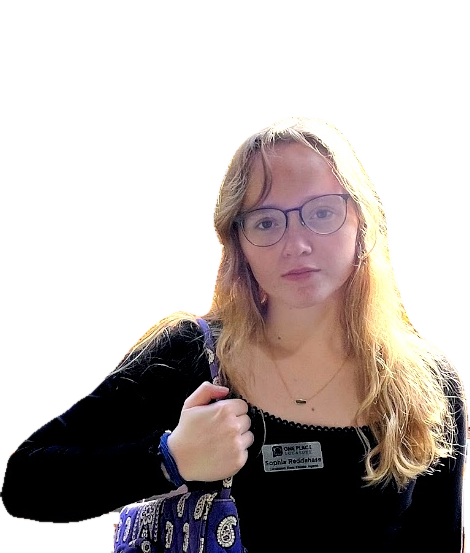
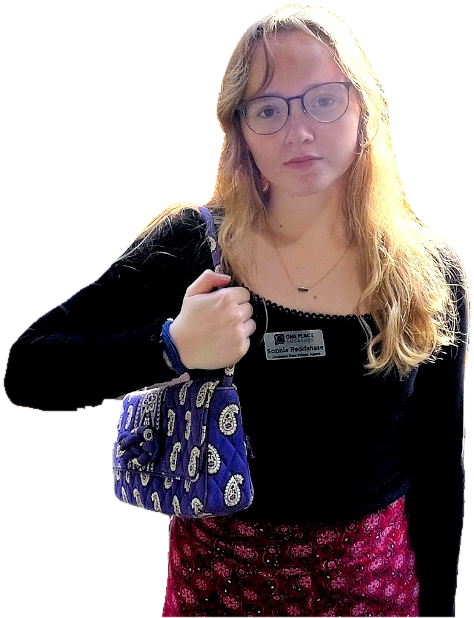
Address reviewer findings: hero crop, compliance wording, JS edge cases
- Re-crop hero cutout: no amputated arm/bag, no dead space above head
- 404.html: root-relative links, verbatim disclaimer
- Soften second-chance FAQ wording (fair-housing caution)
- Calculator: remove confusing double-negative on savings display
- Typography: curly quotes/apostrophes throughout
- app.js: clipboard copy now fires on CTA click, not automatically;
  guard against corrupted localStorage; wire data-q attributes
- Calculator: fix textarea leak in clipboard fallback

Claude-Session: https://claude.ai/code/session_01WHsz2PdPrjb1zEL57Ad5Gb

diff --git a/net_effective_calculator.html b/net_effective_calculator.html
@@ -340,7 +340,7 @@
 
 <main class="calc-main">
     <h1>Is that move-in special actually a deal?</h1>
-    <p class="calc-intro">"Six weeks free" sounds great, but once the free weeks run out you pay the full advertised rent every month. Spread the savings across your whole lease and you get the <strong>net effective rent</strong> — the real average monthly cost. That is the number to compare apartments with.</p>
+    <p class="calc-intro">“Six weeks free” sounds great, but once the free weeks run out you pay the full advertised rent every month. Spread the savings across your whole lease and you get the <strong>net effective rent</strong> — the real average monthly cost. That is the number to compare apartments with.</p>
     <p class="calc-intro">Type in what the ad says and see the real math.</p>
 
     <div class="calc-card">
@@ -361,7 +361,7 @@
             </div>
 
             <div class="input-group">
-                <label for="specialType">The special they're offering</label>
+                <label for="specialType">The special they’re offering</label>
                 <select id="specialType">
                     <option value="weeks_4">4 weeks free (about 1 month)</option>
                     <option value="weeks_6">6 weeks free (about 1.5 months)</option>
@@ -387,7 +387,7 @@
             </div>
             <div class="metric-row">
                 <span class="metric-label">What the special saves you in total</span>
-                <span class="metric-val" id="dispConcession">-$1,707.69</span>
+                <span class="metric-val" id="dispConcession">$1,707.69 total</span>
             </div>
             <div class="metric-row">
                 <span class="metric-label">What you really pay, averaged per month</span>
@@ -398,7 +398,7 @@
 
         <div class="preview-area">
             <p class="preview-title">Want me to check it?</p>
-            <p class="preview-sub">Copy this summary and text it to me. I'll tell you if it's a fair deal — and whether another community nearby beats it.</p>
+            <p class="preview-sub">Copy this summary and text it to me. I’ll tell you if it’s a fair deal — and whether another community nearby beats it.</p>
             <div class="quote-box" id="quoteText">Loading...</div>
             <div class="quote-actions">
                 <button type="button" class="btn-copy" id="copyBtn" onclick="copyQuote()">Copy this summary</button>
@@ -409,7 +409,7 @@
 
     <section class="calc-explain">
         <h2>Why net effective rent matters</h2>
-        <p>Listings often advertise the discounted average to look cheaper than the lease you actually sign. Two apartments at "$1,700/mo" can cost very different amounts once you account for who is giving real weeks free and who is not.</p>
+        <p>Listings often advertise the discounted average to look cheaper than the lease you actually sign. Two apartments at “$1,700/mo” can cost very different amounts once you account for who is giving real weeks free and who is not.</p>
         <p>I do this comparison for renters every day, and my help is free — the apartment communities pay me a referral fee when you sign. If you want the current specials that actually pencil out in your budget, <a href="sms:5126761215">text me at (512) 676-1215</a> or <a href="https://sparkapt.com/inquiry/sophia-reddehase859">fill out my quick form</a>.</p>
     </section>
 </main>
@@ -489,18 +489,18 @@
 
         dispBase.innerText = `$${base.toLocaleString(undefined, {minimumFractionDigits: 0, maximumFractionDigits: 0})}/mo`;
         dispConcession.innerText = totalDiscount > 0
-            ? `-$${totalDiscount.toLocaleString(undefined, {minimumFractionDigits: 2, maximumFractionDigits: 2})} total`
+            ? `$${totalDiscount.toLocaleString(undefined, {minimumFractionDigits: 2, maximumFractionDigits: 2})} total`
             : "$0";
         dispNet.innerText = `$${netEffective.toLocaleString(undefined, {minimumFractionDigits: 2, maximumFractionDigits: 2})}/mo`;
 
         let formattedMsg = "";
         if (totalDiscount > 0) {
-            formattedMsg = `Hi Sophia! I'm looking at ${prop}.\n` +
+            formattedMsg = `Hi Sophia! I’m looking at ${prop}.\n` +
                 `Advertised rent: $${base.toLocaleString()}/mo, ${term}-month lease, special: ${specialLabel}.\n` +
                 `That works out to about $${Math.round(netEffective).toLocaleString()}/mo net effective (roughly $${Math.round(totalDiscount).toLocaleString()} total savings).\n` +
                 `Is that a fair deal, or can you find me something better?`;
         } else {
-            formattedMsg = `Hi Sophia! I'm looking at ${prop}.\n` +
+            formattedMsg = `Hi Sophia! I’m looking at ${prop}.\n` +
                 `Advertised rent: $${base.toLocaleString()}/mo on a ${term}-month lease, no special.\n` +
                 `Can you check if anything nearby beats it right now?`;
         }
@@ -529,8 +529,12 @@
             ta.style.left = '-9999px';
             document.body.appendChild(ta);
             ta.select();
-            const ok = document.execCommand('copy');
-            document.body.removeChild(ta);
+            let ok = false;
+            try {
+                ok = document.execCommand('copy');
+            } finally {
+                document.body.removeChild(ta);
+            }
             if (ok) showCopied();
         } catch (e) {
             /* Clipboard unavailable; the text stays selectable in the box. */

diff --git a/app.js b/app.js
@@ -138,7 +138,12 @@
       var raw = window.localStorage.getItem(STORAGE_KEY);
       if (!raw) return null;
       var parsed = JSON.parse(raw);
-      return (parsed && typeof parsed === 'object') ? parsed : null;
+      if (!parsed || typeof parsed !== 'object') return null;
+      for (var i = 0; i < Q_KEYS.length; i++) {
+        var key = Q_KEYS[i];
+        if (key in parsed && typeof parsed[key] !== 'string') return null;
+      }
+      return parsed;
     } catch (err) {
       return null;
     }
@@ -161,7 +166,7 @@
       ' · Budget: ' + answers.budget +
       ' · ' + bedsPart +
       ' · Move: ' + movePart +
-      " — sent from Sophia's site";
+      ' — sent from Sophia’s site';
   }
 
   function buildSparkHref(answers) {
@@ -202,6 +207,10 @@
     note.classList.remove('is-hidden');
     note.removeAttribute('hidden');
   }
+
+  /* Most recently built summary, kept so the CTA click handlers (added by
+     initCtaClipboard) can copy it at click time without rebuilding it. */
+  var currentSummary = '';
 
   /* Copy with navigator.clipboard, falling back to execCommand.
      The "copied" note is shown only when a copy actually succeeded. */
@@ -251,7 +260,8 @@
     var fieldsets = document.querySelectorAll('fieldset.starter-q');
     if (!fieldsets.length) {
       /* Still give the sticky bar / results whatever a previous visit stored. */
-      applyAnswers(readStored(), false);
+      applyAnswers(readStored());
+      initCtaClipboard();
       return;
     }
 
@@ -279,17 +289,18 @@
           markSelected(fieldset, btn);
           writeStored(answers);
           if (allAnswered(answers)) {
-            applyAnswers(answers, true);
+            applyAnswers(answers);
           }
         });
       });
     });
 
-    /* Hydration: if a previous visit finished the quiz, restore the results
-       (no clipboard write on load — browsers require a user gesture). */
+    /* Hydration: if a previous visit finished the quiz, restore the results. */
     if (allAnswered(answers)) {
-      applyAnswers(answers, false);
+      applyAnswers(answers);
     }
+
+    initCtaClipboard();
   }
 
   function markSelected(fieldset, chosen) {
@@ -310,11 +321,13 @@
   }
 
   /* Build the summary, reveal results, rewrite CTA hrefs, update sticky bar.
-     fromClick governs the clipboard write (needs a user gesture). */
-  function applyAnswers(answers, fromClick) {
+     Never copies to the clipboard here — that only happens from a CTA click
+     (see initCtaClipboard), so it always has a real user gesture behind it. */
+  function applyAnswers(answers) {
     if (!allAnswered(answers)) return;
 
     var summary = buildSummary(answers);
+    currentSummary = summary;
     var results = document.getElementById('quiz-results');
     var summaryEl = document.getElementById('quiz-summary');
     var smsCta = document.getElementById('quiz-cta-sms');
@@ -332,10 +345,23 @@
       results.classList.remove('is-hidden');
       results.removeAttribute('hidden');
     }
+  }
 
-    if (fromClick) {
-      copySummary(summary, results);
-    }
+  /* Copy the summary to the clipboard only when a visitor actively clicks
+     one of the three quiz CTAs — never automatically. Navigation is left
+     alone (no preventDefault): the copy just piggybacks on the click, and
+     the "Copied" note (via copySummary -> showCopyNote) only appears once
+     that click-triggered copy actually succeeds. */
+  function initCtaClipboard() {
+    var results = document.getElementById('quiz-results');
+    var ctaIds = ['quiz-cta-sms', 'quiz-cta-spark', 'quiz-cta-email'];
+    Array.prototype.forEach.call(ctaIds, function (id) {
+      var cta = document.getElementById(id);
+      if (!cta) return;
+      cta.addEventListener('click', function () {
+        if (currentSummary) copySummary(currentSummary, results);
+      });
+    });
   }
 
   /* ---------------------------------------------------------------- *

diff --git a/index.html b/index.html
@@ -76,7 +76,7 @@
           {
             "@type": "Question",
             "name": "I have credit issues, an eviction, or a broken lease. Can you still help?",
-            "acceptedAnswer": { "@type": "Answer", "text": "Yes — that’s my specialty. Tell me your situation up front and I’ll only send you communities that will actually work with it, so you’re not burning application fees on automatic denials." }
+            "acceptedAnswer": { "@type": "Answer", "text": "Yes — that’s my specialty. Tell me your situation up front and I’ll only send you communities that are more likely to work with it, so you’re not burning application fees on automatic denials." }
           },
           {
             "@type": "Question",
@@ -144,7 +144,7 @@
           <p class="trust-line">TREC Lic. #831516 &middot; Spirit Real Estate Group, LLC &middot; Always free for renters</p>
         </div>
         <div class="hero-photo-wrap">
-          <img id="hero-photo" src="assets/site/sophia_hero.png" alt="Sophia Reddehase, Austin apartment locator" width="540" height="635" fetchpriority="high">
+          <img id="hero-photo" src="assets/site/sophia_hero.png" alt="Sophia Reddehase, Austin apartment locator" width="474" height="618" fetchpriority="high">
         </div>
       </div>
     </section>
@@ -250,7 +250,7 @@
         <h2>Start your search here</h2>
         <p class="section-intro">Answer four quick questions. Nothing gets submitted automatically — your answers just build a text message you send me when you’re ready.</p>
 
-        <fieldset class="starter-q">
+        <fieldset class="starter-q" data-q="area">
           <legend>1. What area?</legend>
           <div class="starter-opts">
             <button class="starter-opt" type="button" aria-pressed="false" data-q="area" data-value="Downtown &amp; Central Austin">Downtown &amp; Central Austin</button>
@@ -263,7 +263,7 @@
           </div>
         </fieldset>
 
-        <fieldset class="starter-q">
+        <fieldset class="starter-q" data-q="budget">
           <legend>2. Monthly budget?</legend>
           <div class="starter-opts">
             <button class="starter-opt" type="button" aria-pressed="false" data-q="budget" data-value="Under $1,300">Under $1,300</button>
@@ -274,7 +274,7 @@
           </div>
         </fieldset>
 
-        <fieldset class="starter-q">
+        <fieldset class="starter-q" data-q="beds">
           <legend>3. Bedrooms?</legend>
           <div class="starter-opts">
             <button class="starter-opt" type="button" aria-pressed="false" data-q="beds" data-value="Studio">Studio</button>
@@ -284,7 +284,7 @@
           </div>
         </fieldset>
 
-        <fieldset class="starter-q">
+        <fieldset class="starter-q" data-q="move">
           <legend>4. When are you moving?</legend>
           <div class="starter-opts">
             <button class="starter-opt" type="button" aria-pressed="false" data-q="move" data-value="ASAP">ASAP</button>
@@ -339,7 +339,7 @@
         </details>
         <details class="faq-item">
           <summary>I have credit issues, an eviction, or a broken lease. Can you still help?</summary>
-          <p>Yes — that’s my specialty. Tell me your situation up front and I’ll only send you communities that will actually work with it, so you’re not burning application fees on automatic denials.</p>
+          <p>Yes — that’s my specialty. Tell me your situation up front and I’ll only send you communities that are more likely to work with it, so you’re not burning application fees on automatic denials.</p>
         </details>
         <details class="faq-item">
           <summary>How fast can you find me something?</summary>

diff --git a/404.html b/404.html
@@ -6,9 +6,9 @@
     <title>Page not found | Sophia Reddehase</title>
     <meta name="robots" content="noindex">
     <meta name="theme-color" content="#FDFDFB">
-    <link rel="icon" href="favicon.svg" type="image/svg+xml">
-    <link rel="icon" href="favicon-32.png" sizes="32x32" type="image/png">
-    <link rel="apple-touch-icon" href="apple-touch-icon.png">
+    <link rel="icon" href="/sophia-austin-locating/favicon.svg" type="image/svg+xml">
+    <link rel="icon" href="/sophia-austin-locating/favicon-32.png" sizes="32x32" type="image/png">
+    <link rel="apple-touch-icon" href="/sophia-austin-locating/apple-touch-icon.png">
     <link rel="preconnect" href="https://fonts.googleapis.com">
     <link rel="preconnect" href="https://fonts.gstatic.com" crossorigin>
     <link href="https://fonts.googleapis.com/css2?family=Source+Serif+4:wght@600;700&family=Inter:wght@400;500;600&display=swap" rel="stylesheet">
@@ -109,19 +109,19 @@
 
 <main>
     <div class="card">
-        <a class="brand" href="index.html">Sophia Reddehase</a>
-        <h1>That page doesn't exist.</h1>
+        <a class="brand" href="/sophia-austin-locating/index.html">Sophia Reddehase</a>
+        <h1>That page doesn’t exist.</h1>
         <p class="lead">No problem — everything useful is one click away.</p>
         <div class="actions">
             <a class="btn-primary" href="https://sparkapt.com/inquiry/sophia-reddehase859">Start my free search</a>
-            <a class="btn-secondary" href="index.html">Back to the homepage</a>
+            <a class="btn-secondary" href="/sophia-austin-locating/index.html">Back to the homepage</a>
             <a class="btn-secondary" href="tel:5126761215">Call or text (512) 676-1215</a>
         </div>
     </div>
 </main>
 
 <footer>
-    Sophia Reddehase, TREC License #831516 · Spirit Real Estate Group, LLC · Equal Housing Opportunity. Pricing and availability subject to change daily. All specials and effective rents subject to property terms and leasing approval.
+    Sophia Reddehase, TREC License #831516 · Spirit Real Estate Group, LLC. Pricing and availability subject to change daily. All specials and effective rents subject to property terms and leasing approval. Equal Housing Opportunity.
 </footer>
 
 </body>
